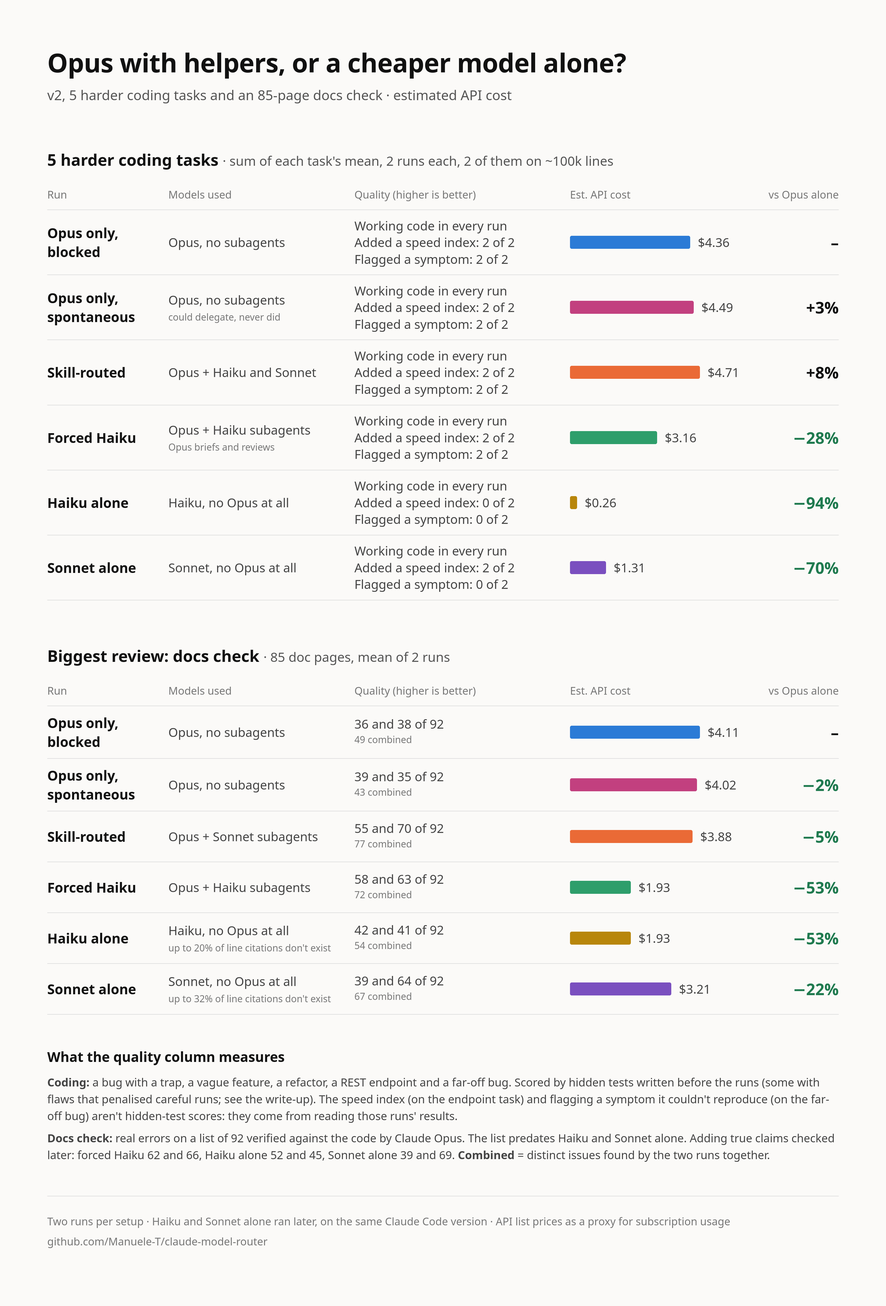
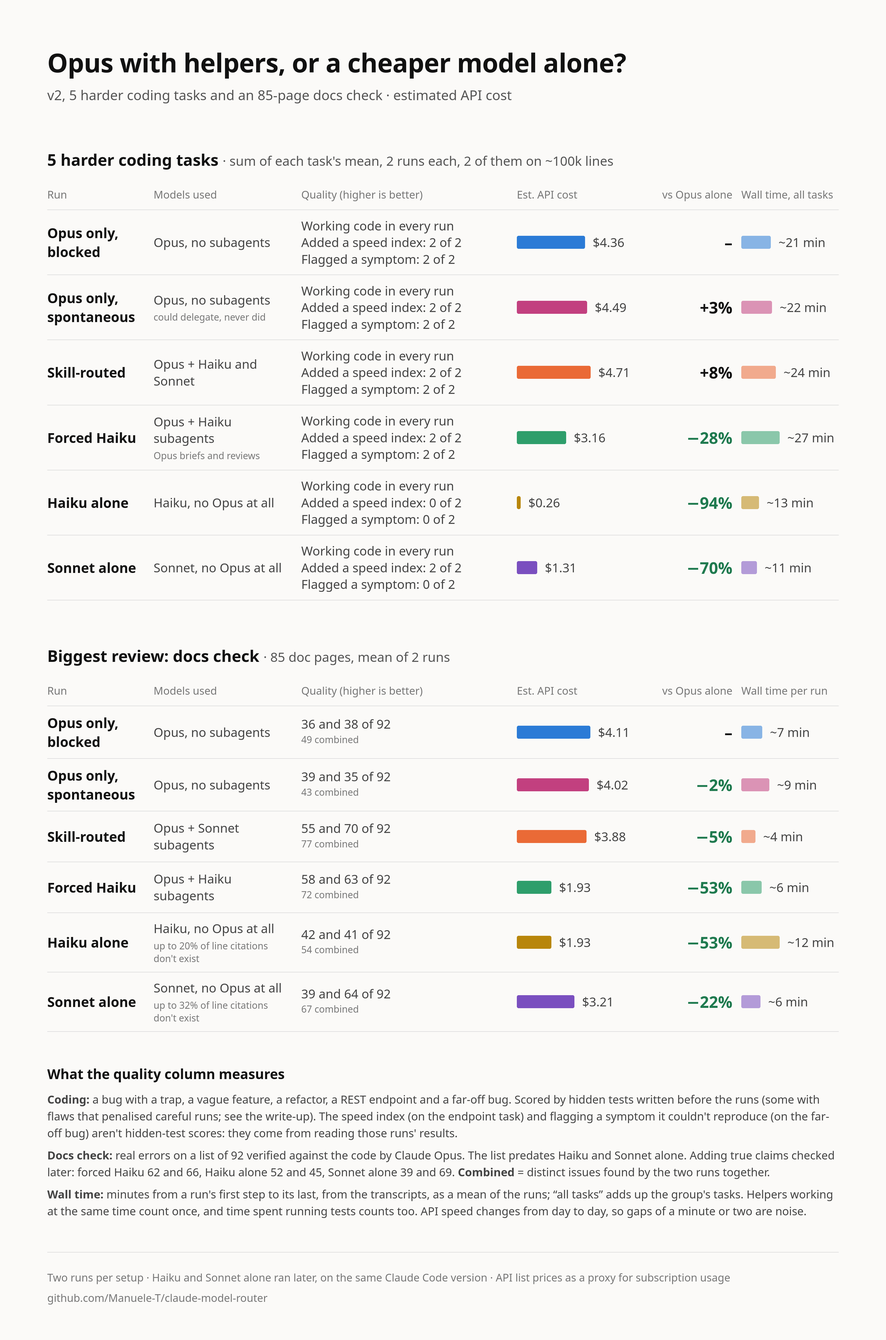
Add wall time per run to the reading and coding charts

diff --git a/scripts/make_charts.py b/scripts/make_charts.py
@@ -49,6 +49,11 @@ h2 span {{ font-size: 44px; font-weight: 400; color: #555; }}
 .depth {{ grid-template-columns: 390px 400px 360px 630px 410px 340px; }}
 .bar small {{ display: block; font-size: 32px; color: #777; margin-top: 2px; }}
 .thead.depth div:last-child {{ text-align: left; }}
+.thead.t, .row.t {{ grid-template-columns: 330px 470px 700px 1fr 270px 330px; }}
+.thead.t div:last-child {{ text-align: left; }}
+.thead.t div:nth-child(5) {{ text-align: right; }}
+.bar.tm {{ white-space: nowrap; }}
+.bar.tm i {{ opacity: 0.55; flex: none; }}
 """
 
 
@@ -56,13 +61,18 @@ def esc(s):
     return html.escape(s)
 
 
-def section(title, note, rows, base="forced Opus", cost_label="Est. API cost"):
+def section(title, note, rows, base="forced Opus", cost_label="Est. API cost", time_label="Wall time per run"):
+    """If every row has "time" (minutes), the section gets a wall-time column."""
     top = max(r["cost"] for r in rows)
+    timed = all("time" in r for r in rows)
+    t = " t" if timed else ""
+    top_t = max(r["time"] for r in rows) if timed else 0
     out = [f"<h2>{esc(title)} <span>· {esc(note)}</span></h2>",
-           '<div class="thead"><div>Run</div><div>Models used</div><div>Quality (higher is better)</div>'
-           f'<div>{esc(cost_label)}</div><div>vs {esc(base)}</div></div>']
+           f'<div class="thead{t}"><div>Run</div><div>Models used</div><div>Quality (higher is better)</div>'
+           f'<div>{esc(cost_label)}</div><div>vs {esc(base)}</div>'
+           + (f"<div>{esc(time_label)}</div>" if timed else "") + "</div>"]
     for r in rows:
-        width = int(440 * r["cost"] / top)
+        width = int((250 if timed else 440) * r["cost"] / top)
         small = f"<small>{esc(r['small'])}</small>" if r.get("small") else ""
         delta = r.get("delta", "–")
         cls = "d good" if delta.startswith("−") else "d"
@@ -72,11 +82,14 @@ def section(title, note, rows, base="forced Opus", cost_label="Est. API cost"):
             parts.append(f"{esc(m.group(1))}<small>{m.group(2)} combined</small>" if m else esc(x) + "<br>")
         quality = "".join(parts)
         out.append(
-            f'<div class="row"><div class="n">{esc(r["name"])}</div>'
+            f'<div class="row{t}"><div class="n">{esc(r["name"])}</div>'
             f'<div class="m">{esc(r["models"])}{small}</div>'
             f'<div class="q">{quality}</div>'
             f'<div class="bar"><i style="width:{width}px;background:{COLORS[r["kind"]]}"></i>${r["cost"]:.2f}</div>'
-            f'<div class="{cls}">{esc(delta)}</div></div>')
+            f'<div class="{cls}">{esc(delta)}</div>'
+            + (f'<div class="bar tm"><i style="width:{int(130 * r["time"] / top_t)}px;background:{COLORS[r["kind"]]}"></i>'
+               f'~{r["time"]:.0f} min</div>' if timed else "")
+            + "</div>")
     return "\n".join(out)
 
 
@@ -190,25 +203,25 @@ CHARTS = {
         "Delegating to cheaper models: largest codebase",
         "beets (open source), ~52k lines · estimated API cost",
         [section("All three tasks", "summaries + 2 docs checks, mean of 2 runs", [
-            {**OPUS, "cost": 13.49, "quality": ["Summaries: 167/167 modules", "Reference docs: 10 and 16 of 35 (17 combined)"]},
-            {**NAT, "cost": 9.20, "delta": "−32%",
+            {**OPUS, "time": 25.3, "cost": 13.49, "quality": ["Summaries: 167/167 modules", "Reference docs: 10 and 16 of 35 (17 combined)"]},
+            {**NAT, "time": 17.1, "cost": 9.20, "delta": "−32%",
              "quality": ["Summaries: 167/167 modules", "Reference docs: 10 and 9 of 35 (12 combined)"]},
             {"name": "Skill-routed", "models": "Opus + 39 Sonnet", "small": "subagents across both runs",
-             "kind": "routed", "cost": 8.34, "delta": "−38%",
+             "kind": "routed", "time": 9.8, "cost": 8.34, "delta": "−38%",
              "quality": ["Summaries: 167/167 modules", "Reference docs: 18 and 13 of 35 (23 combined)"]},
             {"name": "Forced Haiku", "models": "Opus + 40 Haiku", "small": "subagents across both runs",
-             "kind": "haiku", "cost": 3.33, "delta": "−75%",
+             "kind": "haiku", "time": 12.9, "cost": 3.33, "delta": "−75%",
              "quality": ["Summaries: 167/167 modules", "Reference docs: 20 and 11 of 35 (24 combined)"]},
-         ]),
+         ], time_label="Wall time, all tasks"),
          section("Biggest job: plugin docs check", "80 doc pages, mean of 2 runs", [
-            {**OPUS, "cost": 9.20, "small": "~15 min per run",
+            {**OPUS, "time": 14.8, "cost": 9.20,
              "quality": ["41 and 33 of 61 (44 combined)"]},
-            {**NAT, "small": "~9 min per run", "cost": 6.01, "delta": "−35%",
+            {**NAT, "time": 8.7, "cost": 6.01, "delta": "−35%",
              "quality": ["27 and 35 of 61 (36 combined)"]},
-            {"name": "Skill-routed", "models": "Opus + 8 Sonnet", "small": "~3 min per run", "kind": "routed",
-             "cost": 3.95, "delta": "−57%", "quality": ["30 and 28 of 61 (35 combined)"]},
-            {"name": "Forced Haiku", "models": "Opus + 8 Haiku", "small": "~4 min per run", "kind": "haiku",
-             "cost": 1.49, "delta": "−84%", "quality": ["30 and 30 of 61 (39 combined)"]},
+            {"name": "Skill-routed", "models": "Opus + 8 Sonnet", "kind": "routed",
+             "time": 3.2, "cost": 3.95, "delta": "−57%", "quality": ["30 and 28 of 61 (35 combined)"]},
+            {"name": "Forced Haiku", "models": "Opus + 8 Haiku", "kind": "haiku",
+             "time": 4.3, "cost": 1.49, "delta": "−84%", "quality": ["30 and 30 of 61 (39 combined)"]},
          ])],
         ["<b>Summaries:</b> one paragraph for every module, saying what it does and which other modules it "
          "works with. Scored on coverage (all 167 modules) and by checking each named module link against the "
@@ -216,133 +229,138 @@ CHARTS = {
          "<b>Reference docs:</b> check 5 reference pages against the code. The score is how many of the 35 "
          "known out-of-date or wrong claims each run found (two runs per setup). <b>Combined</b> = distinct issues found by the two runs together.",
          "<b>Plugin docs:</b> the same check on all 80 plugin pages, against 61 known issues (re-checked: every run's claims verified). The cost of the "
-         "plugin check is included in the \"All three tasks\" total above."],
+         "plugin check is included in the \"All three tasks\" total above.",
+         "<b>Wall time:</b> minutes from a run's first step to its last, from the transcripts, as a mean of the runs; “all tasks” adds up the group's tasks. Helpers working at the same time count once, and time spent running tests counts too. API speed changes from day to day, so gaps of a minute or two are noise."],
         [("Skill-routed", "34%", "actually 38% cheaper"),
          ("Forced Haiku", "85%", "actually 75% cheaper")],
-        LEGEND), 4200),
+        LEGEND), 4334),
     "haiku-alone": (page(
         "Opus with helpers, or a cheaper model alone?",
         "v2, 5 harder coding tasks and an 85-page docs check · estimated API cost",
         [section("5 harder coding tasks", "sum of each task's mean, 2 runs each, 2 of them on ~100k lines", [
-            {"name": "Opus only, blocked", "models": "Opus, no subagents", "kind": "opus", "cost": 4.36,
+            {"name": "Opus only, blocked", "models": "Opus, no subagents", "kind": "opus", "time": 20.7, "cost": 4.36,
              "quality": ["Working code in every run", "Added a speed index: 2 of 2", "Flagged a symptom: 2 of 2"]},
             {"name": "Opus only, spontaneous", "models": "Opus, no subagents", "small": "could delegate, never did",
-             "kind": "natural", "cost": 4.49, "delta": "+3%",
+             "kind": "natural", "time": 21.7, "cost": 4.49, "delta": "+3%",
              "quality": ["Working code in every run", "Added a speed index: 2 of 2", "Flagged a symptom: 2 of 2"]},
-            {"name": "Skill-routed", "models": "Opus + Haiku and Sonnet", "kind": "routed", "cost": 4.71, "delta": "+8%",
+            {"name": "Skill-routed", "models": "Opus + Haiku and Sonnet", "kind": "routed", "time": 24.4, "cost": 4.71, "delta": "+8%",
              "quality": ["Working code in every run", "Added a speed index: 2 of 2", "Flagged a symptom: 2 of 2"]},
             {"name": "Forced Haiku", "models": "Opus + Haiku subagents", "small": "Opus briefs and reviews", "kind": "haiku",
-             "cost": 3.16, "delta": "−28%",
+             "time": 26.9, "cost": 3.16, "delta": "−28%",
              "quality": ["Working code in every run", "Added a speed index: 2 of 2", "Flagged a symptom: 2 of 2"]},
-            {"name": "Haiku alone", "models": "Haiku, no Opus at all", "kind": "solo", "cost": 0.26, "delta": "−94%",
+            {"name": "Haiku alone", "models": "Haiku, no Opus at all", "kind": "solo", "time": 12.6, "cost": 0.26, "delta": "−94%",
              "quality": ["Working code in every run", "Added a speed index: 0 of 2", "Flagged a symptom: 0 of 2"]},
-            {"name": "Sonnet alone", "models": "Sonnet, no Opus at all", "kind": "sonnet", "cost": 1.31, "delta": "−70%",
+            {"name": "Sonnet alone", "models": "Sonnet, no Opus at all", "kind": "sonnet", "time": 11.1, "cost": 1.31, "delta": "−70%",
              "quality": ["Working code in every run", "Added a speed index: 2 of 2", "Flagged a symptom: 0 of 2"]},
-         ], base="Opus alone"),
+         ], base="Opus alone", time_label="Wall time, all tasks"),
          section("Biggest review: docs check", "85 doc pages, mean of 2 runs", [
-            {"name": "Opus only, blocked", "models": "Opus, no subagents", "kind": "opus", "cost": 4.11,
+            {"name": "Opus only, blocked", "models": "Opus, no subagents", "kind": "opus", "time": 6.7, "cost": 4.11,
              "quality": ["36 and 38 of 92 (49 combined)"]},
-            {"name": "Opus only, spontaneous", "models": "Opus, no subagents", "kind": "natural", "cost": 4.02,
+            {"name": "Opus only, spontaneous", "models": "Opus, no subagents", "kind": "natural", "time": 8.9, "cost": 4.02,
              "delta": "−2%", "quality": ["39 and 35 of 92 (43 combined)"]},
-            {"name": "Skill-routed", "models": "Opus + Sonnet subagents", "kind": "routed", "cost": 3.88, "delta": "−5%",
+            {"name": "Skill-routed", "models": "Opus + Sonnet subagents", "kind": "routed", "time": 4.5, "cost": 3.88, "delta": "−5%",
              "quality": ["55 and 70 of 92 (77 combined)"]},
-            {"name": "Forced Haiku", "models": "Opus + Haiku subagents", "kind": "haiku", "cost": 1.93, "delta": "−53%",
+            {"name": "Forced Haiku", "models": "Opus + Haiku subagents", "kind": "haiku", "time": 6.5, "cost": 1.93, "delta": "−53%",
              "quality": ["58 and 63 of 92 (72 combined)"]},
             {"name": "Haiku alone", "models": "Haiku, no Opus at all", "small": "up to 20% of line citations don't exist",
-             "kind": "solo", "cost": 1.93, "delta": "−53%", "quality": ["42 and 41 of 92 (54 combined)"]},
+             "kind": "solo", "time": 12.1, "cost": 1.93, "delta": "−53%", "quality": ["42 and 41 of 92 (54 combined)"]},
             {"name": "Sonnet alone", "models": "Sonnet, no Opus at all", "small": "up to 32% of line citations don't exist",
-             "kind": "sonnet", "cost": 3.21, "delta": "−22%", "quality": ["39 and 64 of 92 (67 combined)"]},
+             "kind": "sonnet", "time": 6.1, "cost": 3.21, "delta": "−22%", "quality": ["39 and 64 of 92 (67 combined)"]},
          ], base="Opus alone")],
         ["<b>Coding:</b> a bug with a trap, a vague feature, a refactor, a REST endpoint and a far-off bug. Scored by "
          "hidden tests written before the runs (some with flaws that penalised careful runs; see the write-up). "
          "The speed index (on the endpoint task) and flagging a symptom it couldn't reproduce (on the far-off bug) aren't hidden-test scores: they come from reading those runs' results.",
          "<b>Docs check:</b> real errors on a list of 92 verified against the code by Claude Opus. The list predates Haiku and Sonnet alone. "
-         "Adding true claims checked later: forced Haiku 62 and 66, Haiku alone 52 and 45, Sonnet alone 39 and 69. <b>Combined</b> = distinct issues found by the two runs together."],
+         "Adding true claims checked later: forced Haiku 62 and 66, Haiku alone 52 and 45, Sonnet alone 39 and 69. <b>Combined</b> = distinct issues found by the two runs together.",
+         "<b>Wall time:</b> minutes from a run's first step to its last, from the transcripts, as a mean of the runs; “all tasks” adds up the group's tasks. Helpers working at the same time count once, and time spent running tests counts too. API speed changes from day to day, so gaps of a minute or two are noise."],
         [],
-        "Two runs per setup · Haiku and Sonnet alone ran later, on the same Claude Code version · API list prices as a proxy for subscription usage"), 4420),
+        "Two runs per setup · Haiku and Sonnet alone ran later, on the same Claude Code version · API list prices as a proxy for subscription usage"), 4535),
     "v2-reading": (page(
         "Reading a ~100k-line codebase",
         "buildbot (open source), v2 · estimated API cost per run",
         [section("All three reading tasks", "summaries + 2 doc checks, mean of 2-3 runs", [
-            {**V2_OPUS, "cost": 8.98,
+            {**V2_OPUS, "time": 19.8, "cost": 8.98,
              "quality": ["Summaries: all 400 modules", "2-page doc check: 10 and 17 of 42 (22 combined)"]},
-            {**V2_FREE, "cost": 8.26, "delta": "−8%",
+            {**V2_FREE, "time": 22.8, "cost": 8.26, "delta": "−8%",
              "quality": ["Summaries: all 400 modules", "2-page doc check: 9 and 9 of 42 (12 combined)"]},
-            {**V2_SKILL, "models": "Opus + Sonnet", "small": "4-10 subagents per task", "cost": 10.19, "delta": "+13%",
+            {**V2_SKILL, "models": "Opus + Sonnet", "small": "4-10 subagents per task", "time": 11.6, "cost": 10.19, "delta": "+13%",
              "quality": ["Summaries: all 400 modules", "2-page doc check: 17 and 21 of 42 (26 combined)"]},
-            {**V2_OH, "small": "4-12 subagents per task", "cost": 4.44, "delta": "−51%",
+            {**V2_OH, "small": "4-12 subagents per task", "time": 13.9, "cost": 4.44, "delta": "−51%",
              "quality": ["Summaries: all 400 modules", "2-page doc check: 20 and 23 of 42 (28 combined)"]},
-         ], base="Opus alone"),
+         ], base="Opus alone", time_label="Wall time, all tasks"),
          section("Biggest job: 85-page doc check", "mean of 2 runs", [
-            {**V2_OPUS, "small": "~7 min per run", "cost": 4.11, "quality": ["36 and 38 of 92 (49 combined)"]},
-            {**V2_FREE, "small": "~9 min per run", "cost": 4.02, "delta": "−2%", "quality": ["39 and 35 of 92 (43 combined)"]},
-            {**V2_SKILL, "models": "Opus + Sonnet", "small": "~4.5 min per run", "cost": 3.88, "delta": "−5%",
+            {**V2_OPUS, "time": 6.7, "cost": 4.11, "quality": ["36 and 38 of 92 (49 combined)"]},
+            {**V2_FREE, "time": 8.9, "cost": 4.02, "delta": "−2%", "quality": ["39 and 35 of 92 (43 combined)"]},
+            {**V2_SKILL, "models": "Opus + Sonnet", "time": 4.5, "cost": 3.88, "delta": "−5%",
              "quality": ["55 and 70 of 92 (77 combined)"]},
-            {**V2_OH, "small": "~6.5 min per run", "cost": 1.93, "delta": "−53%", "quality": ["58 and 63 of 92 (72 combined)"]},
-            {**V2_H, "small": "~12 min per run", "cost": 1.93, "delta": "−53%", "quality": ["42 and 41 of 92 (54 combined)"]},
-            {**V2_S, "small": "~6 min per run", "cost": 3.21, "delta": "−22%", "quality": ["39 and 64 of 92 (67 combined)"]},
+            {**V2_OH, "time": 6.5, "cost": 1.93, "delta": "−53%", "quality": ["58 and 63 of 92 (72 combined)"]},
+            {**V2_H, "time": 12.1, "cost": 1.93, "delta": "−53%", "quality": ["42 and 41 of 92 (54 combined)"]},
+            {**V2_S, "time": 6.1, "cost": 3.21, "delta": "−22%", "quality": ["39 and 64 of 92 (67 combined)"]},
          ], base="Opus alone")],
         ["<b>Summaries:</b> read about 400 code files (a “module” is one source code file) and write a short paragraph on what each does and what it works with. "
          "Every run covered all 400. 83-98% of the links they named matched a real import, with no clear gap between setups.",
          "<b>Doc check:</b> read buildbot's documentation pages and list where they disagree with the code, such as a wrong default value. There's a 2-page check and an 85-page check.",
          "<b>“36 and 38 of 92”:</b> each setup ran twice. Its first run found 36 and its second found 38 of the 92 real errors on the list. Higher is better. <b>Combined</b> = different errors found across both runs.",
          "<b>The list:</b> real errors the runs reported, each confirmed against the code by Claude Opus. It can't include errors every run missed, so 92 isn't every error in the docs. "
-         "30 errors I planted were also found by every run, so they aren't scored here."],
+         "30 errors I planted were also found by every run, so they aren't scored here.",
+         "<b>Wall time:</b> minutes from a run's first step to its last, from the transcripts, as a mean of the runs; “all tasks” adds up the group's tasks. Helpers working at the same time count once, and time spent running tests counts too. API speed changes from day to day, so gaps of a minute or two are noise."],
         [("Skill-routed", "32-39%", "5% cheaper to 32% more expensive"),
          ("Opus plus Haiku", "82-88%", "actually 46-53% cheaper"),
          ("Haiku alone, 85-page check", "81%", "actually 53% cheaper"),
          ("Sonnet alone, 85-page check", "25%", "actually 22% cheaper")],
-        V2_KEY + " · Haiku and Sonnet alone ran later, and only on the 85-page check", EXPL), 4900),
+        V2_KEY + " · Haiku and Sonnet alone ran later, and only on the 85-page check", EXPL), 4978),
     "v2-coding-small": (page(
         "Writing code on a small project",
         "My own Python project, ~10k lines, v2 · estimated API cost for each group of tasks",
         [section("2 simple tasks", "a clearly specified feature + a planted bug, mean of 2 runs", [
-            {**V2_OPUS, "cost": 0.89, "quality": ["Hidden tests: 13 and 13 of 13"]},
-            {**V2_FREE, "cost": 1.04, "delta": "+17%", "quality": ["Hidden tests: 13 and 13 of 13"]},
-            {**V2_SKILL, "cost": 1.05, "delta": "+18%", "quality": ["Hidden tests: 13 and 13 of 13"]},
-            {**V2_OH, "cost": 0.70, "delta": "−21%", "quality": ["Hidden tests: 13 and 13 of 13"]},
-         ], base="Opus alone"),
+            {**V2_OPUS, "time": 2.9, "cost": 0.89, "quality": ["Hidden tests: 13 and 13 of 13"]},
+            {**V2_FREE, "time": 3.7, "cost": 1.04, "delta": "+17%", "quality": ["Hidden tests: 13 and 13 of 13"]},
+            {**V2_SKILL, "time": 4.2, "cost": 1.05, "delta": "+18%", "quality": ["Hidden tests: 13 and 13 of 13"]},
+            {**V2_OH, "time": 5.8, "cost": 0.70, "delta": "−21%", "quality": ["Hidden tests: 13 and 13 of 13"]},
+         ], base="Opus alone", time_label="Wall time, all tasks"),
          section("3 harder tasks", "a bug with a trap, a vague feature, a refactor, mean of 2 runs", [
-            {**V2_OPUS, "cost": 2.41, "quality": ["Hidden tests: 43 and 42 of 43"]},
-            {**V2_FREE, "cost": 2.61, "delta": "+8%", "quality": ["Hidden tests: 43 and 42 of 43"]},
-            {**V2_SKILL, "cost": 2.89, "delta": "+20%", "quality": ["Hidden tests: 43 and 42 of 43"]},
-            {**V2_OH, "cost": 1.80, "delta": "−25%", "quality": ["Hidden tests: 43 and 42 of 43"]},
-            {**V2_H, "cost": 0.11, "delta": "−95%", "quality": ["Hidden tests: 43 and 43 of 43"]},
-            {**V2_S, "cost": 0.76, "delta": "−68%", "quality": ["Hidden tests: 43 and 43 of 43"]},
-         ], base="Opus alone")],
+            {**V2_OPUS, "time": 9.5, "cost": 2.41, "quality": ["Hidden tests: 43 and 42 of 43"]},
+            {**V2_FREE, "time": 11.7, "cost": 2.61, "delta": "+8%", "quality": ["Hidden tests: 43 and 42 of 43"]},
+            {**V2_SKILL, "time": 12.9, "cost": 2.89, "delta": "+20%", "quality": ["Hidden tests: 43 and 42 of 43"]},
+            {**V2_OH, "time": 14.4, "cost": 1.80, "delta": "−25%", "quality": ["Hidden tests: 43 and 42 of 43"]},
+            {**V2_H, "time": 7.1, "cost": 0.11, "delta": "−95%", "quality": ["Hidden tests: 43 and 43 of 43"]},
+            {**V2_S, "time": 7.1, "cost": 0.76, "delta": "−68%", "quality": ["Hidden tests: 43 and 43 of 43"]},
+         ], base="Opus alone", time_label="Wall time, all tasks")],
         ["<b>Clear feature:</b> add an optional description to app profiles, following exact rules. <b>Planted bug:</b> from a user's report, find and fix a bug I added to the code.",
          "<b>Bug with a trap:</b> fix a real bug where apps set to start at login didn't start properly, and where the obvious fix fails. <b>Vague feature:</b> add a command to rename a profile, with one rule: whatever worked under the old name must keep working. <b>Refactor:</b> split a ~700-line file into smaller ones without changing behaviour.",
          "<b>“43 and 42 of 43”:</b> each setup ran twice. Its first run passed 43 and its second passed 42 of the 43 hidden tests. Higher is better. Hidden tests were written before the runs and added afterwards, so no run could see them. The project's own tests also passed in every run, once a rare flaky test was re-run.",
-         "<b>The lost points are a flaw in my test, not bugs:</b> those runs added a useful extra field that my test didn't expect."],
+         "<b>The lost points are a flaw in my test, not bugs:</b> those runs added a useful extra field that my test didn't expect.",
+         "<b>Wall time:</b> minutes from a run's first step to its last, from the transcripts, as a mean of the runs; “all tasks” adds up the group's tasks. Helpers working at the same time count once, and time spent running tests counts too. API speed changes from day to day, so gaps of a minute or two are noise."],
         [("Simple, skill-routed", "32%", "actually cost 18% more"),
          ("Simple, Opus plus Haiku", "65%", "actually 21% cheaper"),
          ("Harder, skill-routed", "32%", "actually cost 20% more"),
          ("Harder, Opus plus Haiku", "66%", "actually 25% cheaper"),
          ("Harder, Haiku alone", "96%", "actually 95% cheaper"),
          ("Harder, Sonnet alone", "39%", "actually 68% cheaper")],
-        V2_KEY + " · Haiku and Sonnet alone ran later, and not on the simple tasks", EXPL), 4900),
+        V2_KEY + " · Haiku and Sonnet alone ran later, and not on the simple tasks", EXPL), 5113),
     "v2-coding-large": (page(
         "Writing code on a ~100k-line codebase",
         "buildbot (open source), v2 · estimated API cost for both tasks, mean of 2 runs",
         [section("2 harder tasks", "a REST endpoint + a bug far from its symptom", [
-            {**V2_OPUS, "cost": 1.95, "quality": ["Official tests: 17 and 17 of 21", "Corrected tests: 21 and 21 of 21", "Speed index: 2 of 2", "Flagged the odd symptom: 2 of 2"]},
-            {**V2_FREE, "cost": 1.88, "delta": "−4%", "quality": ["Official tests: 17 and 17 of 21", "Corrected tests: 21 and 21 of 21", "Speed index: 2 of 2", "Flagged the odd symptom: 2 of 2"]},
-            {**V2_SKILL, "cost": 1.82, "delta": "−7%", "quality": ["Official tests: 17 and 21 of 21", "Corrected tests: 21 and 21 of 21", "Speed index: 2 of 2", "Flagged the odd symptom: 2 of 2"]},
-            {**V2_OH, "cost": 1.36, "delta": "−30%", "quality": ["Official tests: 21 and 17 of 21", "Corrected tests: 21 and 21 of 21", "Speed index: 2 of 2", "Flagged the odd symptom: 2 of 2"]},
-            {**V2_H, "cost": 0.15, "delta": "−93%", "quality": ["Official tests: 17 and 17 of 21", "Corrected tests: 21 and 21 of 21", "Speed index: 0 of 2", "Flagged the odd symptom: 0 of 2"]},
-            {**V2_S, "cost": 0.56, "delta": "−71%", "quality": ["Official tests: 21 and 21 of 21", "Corrected tests: 21 and 21 of 21", "Speed index: 2 of 2", "Flagged the odd symptom: 0 of 2"]},
-         ], base="Opus alone")],
+            {**V2_OPUS, "time": 11.2, "cost": 1.95, "quality": ["Official tests: 17 and 17 of 21", "Corrected tests: 21 and 21 of 21", "Speed index: 2 of 2", "Flagged the odd symptom: 2 of 2"]},
+            {**V2_FREE, "time": 10.0, "cost": 1.88, "delta": "−4%", "quality": ["Official tests: 17 and 17 of 21", "Corrected tests: 21 and 21 of 21", "Speed index: 2 of 2", "Flagged the odd symptom: 2 of 2"]},
+            {**V2_SKILL, "time": 11.5, "cost": 1.82, "delta": "−7%", "quality": ["Official tests: 17 and 21 of 21", "Corrected tests: 21 and 21 of 21", "Speed index: 2 of 2", "Flagged the odd symptom: 2 of 2"]},
+            {**V2_OH, "time": 12.5, "cost": 1.36, "delta": "−30%", "quality": ["Official tests: 21 and 17 of 21", "Corrected tests: 21 and 21 of 21", "Speed index: 2 of 2", "Flagged the odd symptom: 2 of 2"]},
+            {**V2_H, "time": 5.5, "cost": 0.15, "delta": "−93%", "quality": ["Official tests: 17 and 17 of 21", "Corrected tests: 21 and 21 of 21", "Speed index: 0 of 2", "Flagged the odd symptom: 0 of 2"]},
+            {**V2_S, "time": 4.0, "cost": 0.56, "delta": "−71%", "quality": ["Official tests: 21 and 21 of 21", "Corrected tests: 21 and 21 of 21", "Speed index: 2 of 2", "Flagged the odd symptom: 0 of 2"]},
+         ], base="Opus alone", time_label="Wall time, all tasks")],
         ["<b>REST endpoint:</b> add a web API address returning how many of a builder's builds passed, failed and so on, staying fast with millions of builds. "
          "<b>Far-off bug:</b> notifications blamed the wrong people, and the cause was elsewhere, in buildbot's database code. I planted this bug, and buildbot's 6,400+ existing tests don't catch it.",
          "<b>“17 and 17 of 21”:</b> each setup ran twice, and each run's hidden tests passed are shown. Higher is better. Hidden tests were written before the runs. Buildbot's own tests also passed in every run.",
          "<b>Official vs corrected:</b> my test data wrongly left out a completion time, so careful runs lost 4 points. The official scores stand. The corrected test fixes only that, and was written after seeing the first failure.",
          "<b>Speed index</b> (endpoint task): did the run add a database index? <b>Flagged the odd symptom</b> (bug task): the report described a symptom the bug doesn't seem to cause, so did the run say it couldn't reproduce it? "
-         "Tests don't score either one: they come from reading the runs' code and reports. 2 of 2 means both runs did it."],
+         "Tests don't score either one: they come from reading the runs' code and reports. 2 of 2 means both runs did it.",
+         "<b>Wall time:</b> minutes from a run's first step to its last, from the transcripts, as a mean of the runs; “all tasks” adds up the group's tasks. Helpers working at the same time count once, and time spent running tests counts too. API speed changes from day to day, so gaps of a minute or two are noise."],
         [("Skill-routed", "38%", "actually 7% cheaper"),
          ("Opus plus Haiku", "67%", "actually 30% cheaper"),
          ("Haiku alone", "93%", "actually 93% cheaper"),
          ("Sonnet alone", "35%", "actually 71% cheaper")],
-        V2_KEY + " · Haiku and Sonnet alone ran later", EXPL), 4400),
+        V2_KEY + " · Haiku and Sonnet alone ran later", EXPL), 4414),
     "v2-quality-price": (page(
         "Quality vs price: what does each real error cost?",
         "v2, doc checks on two codebases · estimated API cost per real error found",

diff --git a/docs/v2-results.md b/docs/v2-results.md
@@ -25,7 +25,7 @@ Costs are API list prices used as a proxy for subscription usage, and most setup
 | Reviewing code, or anything where every case has to be covered | **Keep Opus involved** | Found all 3 planted bugs in every review run, where Haiku alone found 2 of 3 both times |
 
 <p align="center">
-  <img src="../charts/haiku-alone.png" alt="Five harder coding tasks: Opus alone $4.36, spontaneous Opus $4.49, skill-routed $4.71, forced Haiku $3.16, Haiku alone $0.26, Sonnet alone $1.31, all with working code; Haiku alone added no speed index and didn't flag a symptom it couldn't reproduce, and Sonnet alone added the index but didn't flag the symptom. Docs check: Opus alone $4.11 finding 36 and 38 of 92 real errors, spontaneous Opus $4.02 finding 39 and 35, skill-routed $3.88 finding 55 and 70, forced Haiku $1.93 finding 58 and 63, Haiku alone $1.93 finding 42 and 41, Sonnet alone $3.21 finding 39 and 64" width="800">
+  <img src="../charts/haiku-alone.png" alt="Five harder coding tasks: Opus alone $4.36, spontaneous Opus $4.49, skill-routed $4.71, forced Haiku $3.16, Haiku alone $0.26, Sonnet alone $1.31, all with working code; Haiku alone added no speed index and didn't flag a symptom it couldn't reproduce, and Sonnet alone added the index but didn't flag the symptom. Docs check: Opus alone $4.11 finding 36 and 38 of 92 real errors, spontaneous Opus $4.02 finding 39 and 35, skill-routed $3.88 finding 55 and 70, forced Haiku $1.93 finding 58 and 63, Haiku alone $1.93 finding 42 and 41, Sonnet alone $3.21 finding 39 and 64. Wall time per run: about 21, 22, 24, 27, 13 and 11 minutes for the coding tasks, and about 7, 9, 4, 6, 12 and 6 minutes for the docs check, in the same order" width="800">
 </p>
 
 - **Most of the bill is Opus, and on coding tasks like these it may not be needed.** My hidden tests saw no difference in correctness between Haiku alone and anything using Opus. Even [16 short tasks, most built to trip it up](#tasks-with-hidden-traps) didn't make it clearly fail, so I don't know where its limit is.
@@ -61,7 +61,7 @@ Each setup ran twice (three times where results were far apart), with the same v
 - **Every run caught every planted error**, so they were too easy; the real errors are what separate the setups.
 
 <p align="center">
-  <img src="../charts/v2-reading.png" alt="Reading buildbot: all three tasks cost $8.98 for Opus alone, $8.26 spontaneous Opus, $10.19 skill-routed and $4.44 forced Haiku; on the 85-page docs check Opus alone found 36 and 38 of 92 real errors for $4.11, spontaneous Opus 39 and 35 for $4.02, skill-routed 55 and 70 for $3.88, forced Haiku 58 and 63 for $1.93, Haiku alone 42 and 41 for $1.93, and Sonnet alone 39 and 64 for $3.21" width="800">
+  <img src="../charts/v2-reading.png" alt="Reading buildbot: all three tasks cost $8.98 for Opus alone, $8.26 spontaneous Opus, $10.19 skill-routed and $4.44 forced Haiku; on the 85-page docs check Opus alone found 36 and 38 of 92 real errors for $4.11, spontaneous Opus 39 and 35 for $4.02, skill-routed 55 and 70 for $3.88, forced Haiku 58 and 63 for $1.93, Haiku alone 42 and 41 for $1.93, and Sonnet alone 39 and 64 for $3.21. Wall time per run: about 20, 23, 12 and 14 minutes for all three tasks; on the 85-page check about 7, 9, 4, 6, 12 and 6 minutes, in the same order" width="800">
 </p>
 
 Same caveats as v1: costs are an API-price proxy, there are only 2-3 runs per setup, and "of 42/92" counts errors found by any run, not true recall. Per-run numbers and the scoring rules are in [`data/results.md`](../data/results.md).
@@ -69,11 +69,11 @@ Same caveats as v1: costs are an API-price proxy, there are only 2-3 runs per se
 ## Writing code
 
 <p align="center">
-  <img src="../charts/v2-coding-small.png" alt="Writing code on the small project: on 2 simple tasks, costs were $0.89 for Opus alone, $1.04 free Opus, $1.05 skill-routed and $0.70 Opus plus Haiku, all passing 13 of 13 hidden tests; on 3 harder tasks, $2.41, $2.61, $2.89, $1.80, $0.11 for Haiku alone and $0.76 for Sonnet alone, with the lost points coming from a flaw in my test" width="800">
+  <img src="../charts/v2-coding-small.png" alt="Writing code on the small project: on 2 simple tasks, costs were $0.89 for Opus alone, $1.04 free Opus, $1.05 skill-routed and $0.70 Opus plus Haiku, all passing 13 of 13 hidden tests; on 3 harder tasks, $2.41, $2.61, $2.89, $1.80, $0.11 for Haiku alone and $0.76 for Sonnet alone, with the lost points coming from a flaw in my test. Wall time, all tasks: about 3, 4, 4 and 6 minutes on the simple tasks, and about 10, 12, 13, 14, 7 and 7 minutes on the harder ones, in the same order" width="800">
 </p>
 
 <p align="center">
-  <img src="../charts/v2-coding-large.png" alt="Writing code on buildbot: 2 harder tasks cost $1.95 for Opus alone, $1.88 free Opus, $1.82 skill-routed, $1.36 Opus plus Haiku, $0.15 Haiku alone and $0.56 Sonnet alone. All scored 21 of 21 on corrected tests. All Opus-led runs added a speed index and flagged the odd symptom; neither Haiku-alone run did either, and Sonnet alone added the index but didn't flag the symptom" width="800">
+  <img src="../charts/v2-coding-large.png" alt="Writing code on buildbot: 2 harder tasks cost $1.95 for Opus alone, $1.88 free Opus, $1.82 skill-routed, $1.36 Opus plus Haiku, $0.15 Haiku alone and $0.56 Sonnet alone. All scored 21 of 21 on corrected tests. All Opus-led runs added a speed index and flagged the odd symptom; neither Haiku-alone run did either, and Sonnet alone added the index but didn't flag the symptom. Wall time for both tasks: about 11, 10, 12, 12, 6 and 4 minutes, in the same order" width="800">
 </p>
 
 "But I only use Claude for coding." So v2 also tests tasks that write code, on the small codebase: a well-specified feature touching 7-9 files, and a bug hunt from a user's symptom (one bug planted before any run, not caught by the existing tests). Each was scored by a hidden test file written before any run, plus the whole unit suite. Each setup ran twice ([`data/tasks-v6.md`](../data/tasks-v6.md)).

diff --git a/README.md b/README.md
@@ -56,7 +56,7 @@ Part 2, on how splitting a big review across subagents helps, is done (all 25 ru
 | Reviewing code, or anything where every case has to be covered | **Keep Opus involved** | Found all 3 planted bugs in every review run, where Haiku alone found 2 of 3 both times |
 
 <p align="center">
-  <img src="charts/haiku-alone.png" alt="Five harder coding tasks: Opus alone $4.36, spontaneous Opus $4.49, skill-routed $4.71, forced Haiku $3.16, Haiku alone $0.26, Sonnet alone $1.31, all with working code. Docs check: Opus alone $4.11 finding 36 and 38 of 92 real errors, spontaneous Opus $4.02 finding 39 and 35, skill-routed $3.88 finding 55 and 70, forced Haiku $1.93 finding 58 and 63, Haiku alone $1.93 finding 42 and 41, Sonnet alone $3.21 finding 39 and 64" width="800">
+  <img src="charts/haiku-alone.png" alt="Five harder coding tasks: Opus alone $4.36, spontaneous Opus $4.49, skill-routed $4.71, forced Haiku $3.16, Haiku alone $0.26, Sonnet alone $1.31, all with working code. Docs check: Opus alone $4.11 finding 36 and 38 of 92 real errors, spontaneous Opus $4.02 finding 39 and 35, skill-routed $3.88 finding 55 and 70, forced Haiku $1.93 finding 58 and 63, Haiku alone $1.93 finding 42 and 41, Sonnet alone $3.21 finding 39 and 64. Wall time per run: about 21, 22, 24, 27, 13 and 11 minutes for the coding tasks, and about 7, 9, 4, 6, 12 and 6 minutes for the docs check, in the same order" width="800">
 </p>
 
 **Treat these as strong hints, not proof.** Most setups ran twice per task, costs are API prices used as a proxy for subscription usage, and Claude Opus wrote my hidden tests and verified the errors. Three of those tests had flaws, reported in the results. Even tasks built to trip it up didn't make Haiku alone clearly fail, so I don't know where its limit is. Test on your own work.

diff --git a/docs/v1-results.md b/docs/v1-results.md
@@ -30,7 +30,7 @@ I wanted to see whether, and how, Claude Opus decides to spawn subagents, and wh
 **Largest codebase (beets, ~52k lines): delegation finally paid.** Forced Opus worked hardest and found the most on the 80-page docs check (44 of 61 issues combined after a re-check, against 35-39 for the others; first scored as 45 of 51 against 30-34), but one long session cost $9 per run. Forced Haiku cost 75% less overall and found the most on the reference docs (24 of 35 combined, against 17); skill routing cost 38% less.
 
 <p align="center">
-  <img src="../charts/largest-codebase.png" alt="Largest codebase: spontaneous Opus cost 32% less than forced Opus, skill-routed runs 38% less and forced Haiku 75% less; on the 80-page docs check all three found fewer issues" width="800">
+  <img src="../charts/largest-codebase.png" alt="Largest codebase: spontaneous Opus cost 32% less than forced Opus, skill-routed runs 38% less and forced Haiku 75% less; on the 80-page docs check all three found fewer issues. Wall time per run, all three tasks: about 25 minutes for forced Opus, 17 spontaneous, 10 skill-routed and 13 forced Haiku; on the 80-page check about 15, 9, 3 and 4 minutes" width="800">
 </p>
 
 Across all three:
